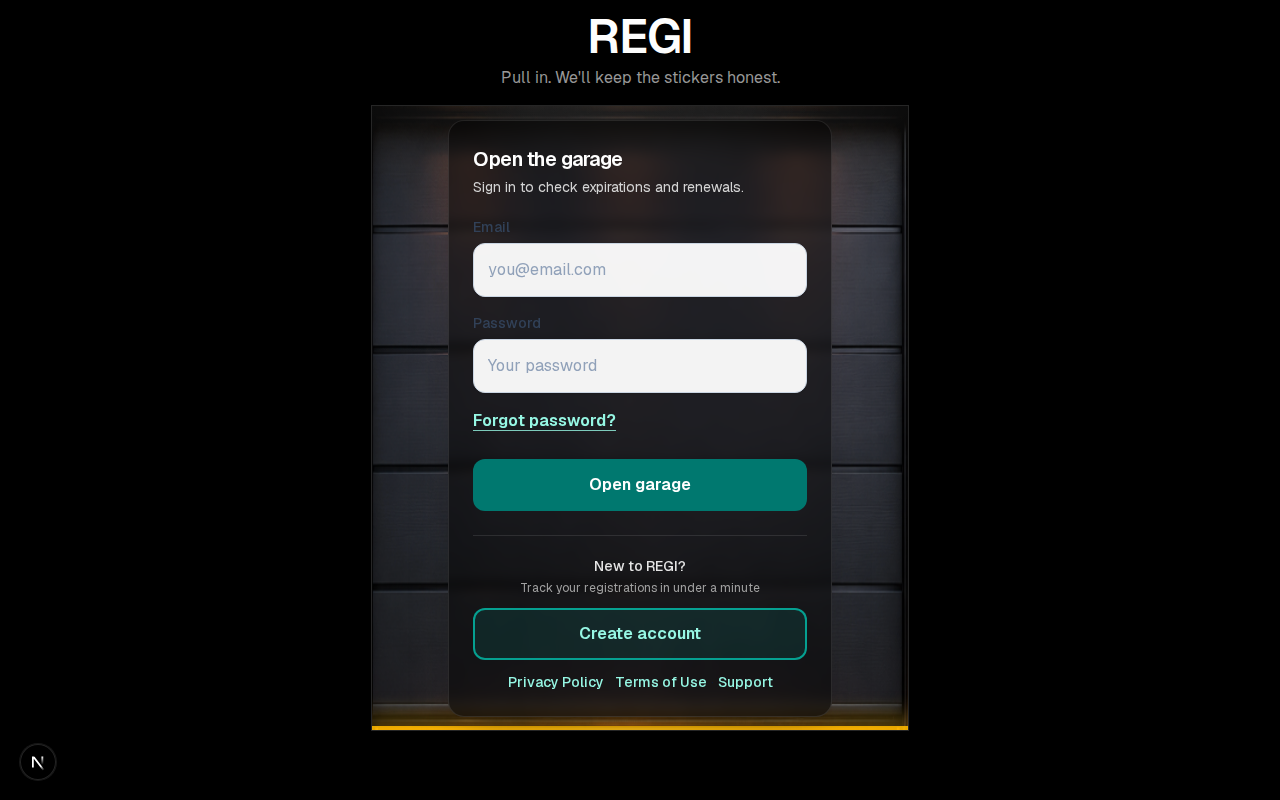
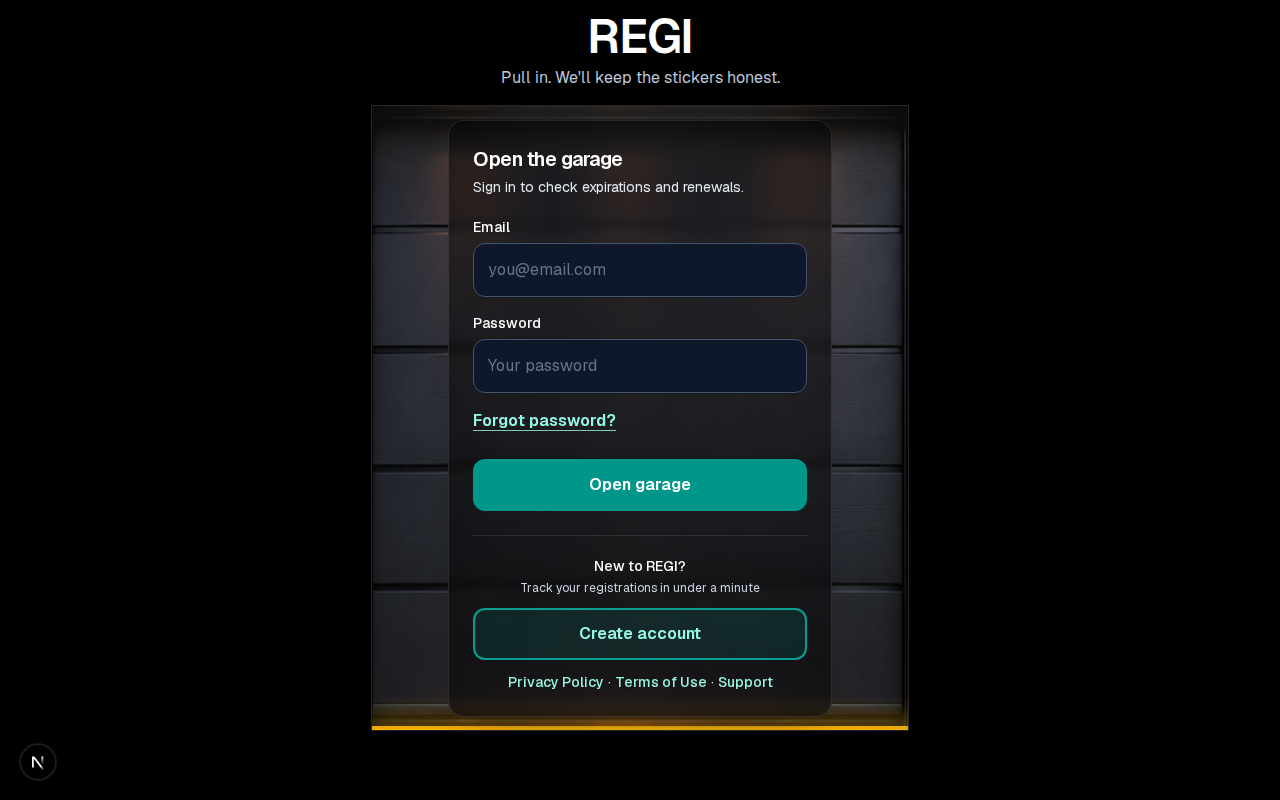
docs: recapture login evidence after label contrast fix
Dark and light theme shots showing white Email/Password labels and the
unchanged prominent Forgot password link.

diff --git a/docs/evidence/forgot-password/README.md b/docs/evidence/forgot-password/README.md
@@ -1,17 +1,20 @@
 # Forgot-password prominence evidence (PR #75)
 
 Screenshots of the login and reset-password flows after making **Forgot
-password?** more visible and adding inline error guidance.
+password?** more visible, adding inline error guidance, and raising
+**Email** / **Password** label contrast on the dark garage-door card.
 
-Captured from the running app (mobile + desktop login, wrong-password
-inline CTA, and the forgot-password page). `staging_login_before_buried_link.png`
-is the optional before shot of the buried link on staging.
+Labels use theme-independent `onDarkLabelClassName` (`text-white`) so they
+stay readable whether the app theme is dark or light. The garage-door card
+is always dark.
 
 These files are in-repo so Hub can pull them via `raw.githubusercontent.com`
 without a GitHub click-through.
 
 | File | What it shows |
 | --- | --- |
+| `login_dark_readable_labels.png` | Dark theme: white Email/Password labels + prominent **Forgot password?** |
+| `login_light_theme_readable_labels.png` | Light app theme: same always-dark card, labels still white |
 | `login_forgot_password_prominent_mobile.png` | Login (mobile): **Forgot password?** is easy to find |
 | `login_forgot_password_prominent_desktop.png` | Login (desktop): same link, not buried |
 | `login_inline_error_with_reset_cta.png` | Wrong-password inline error with a reset CTA |
